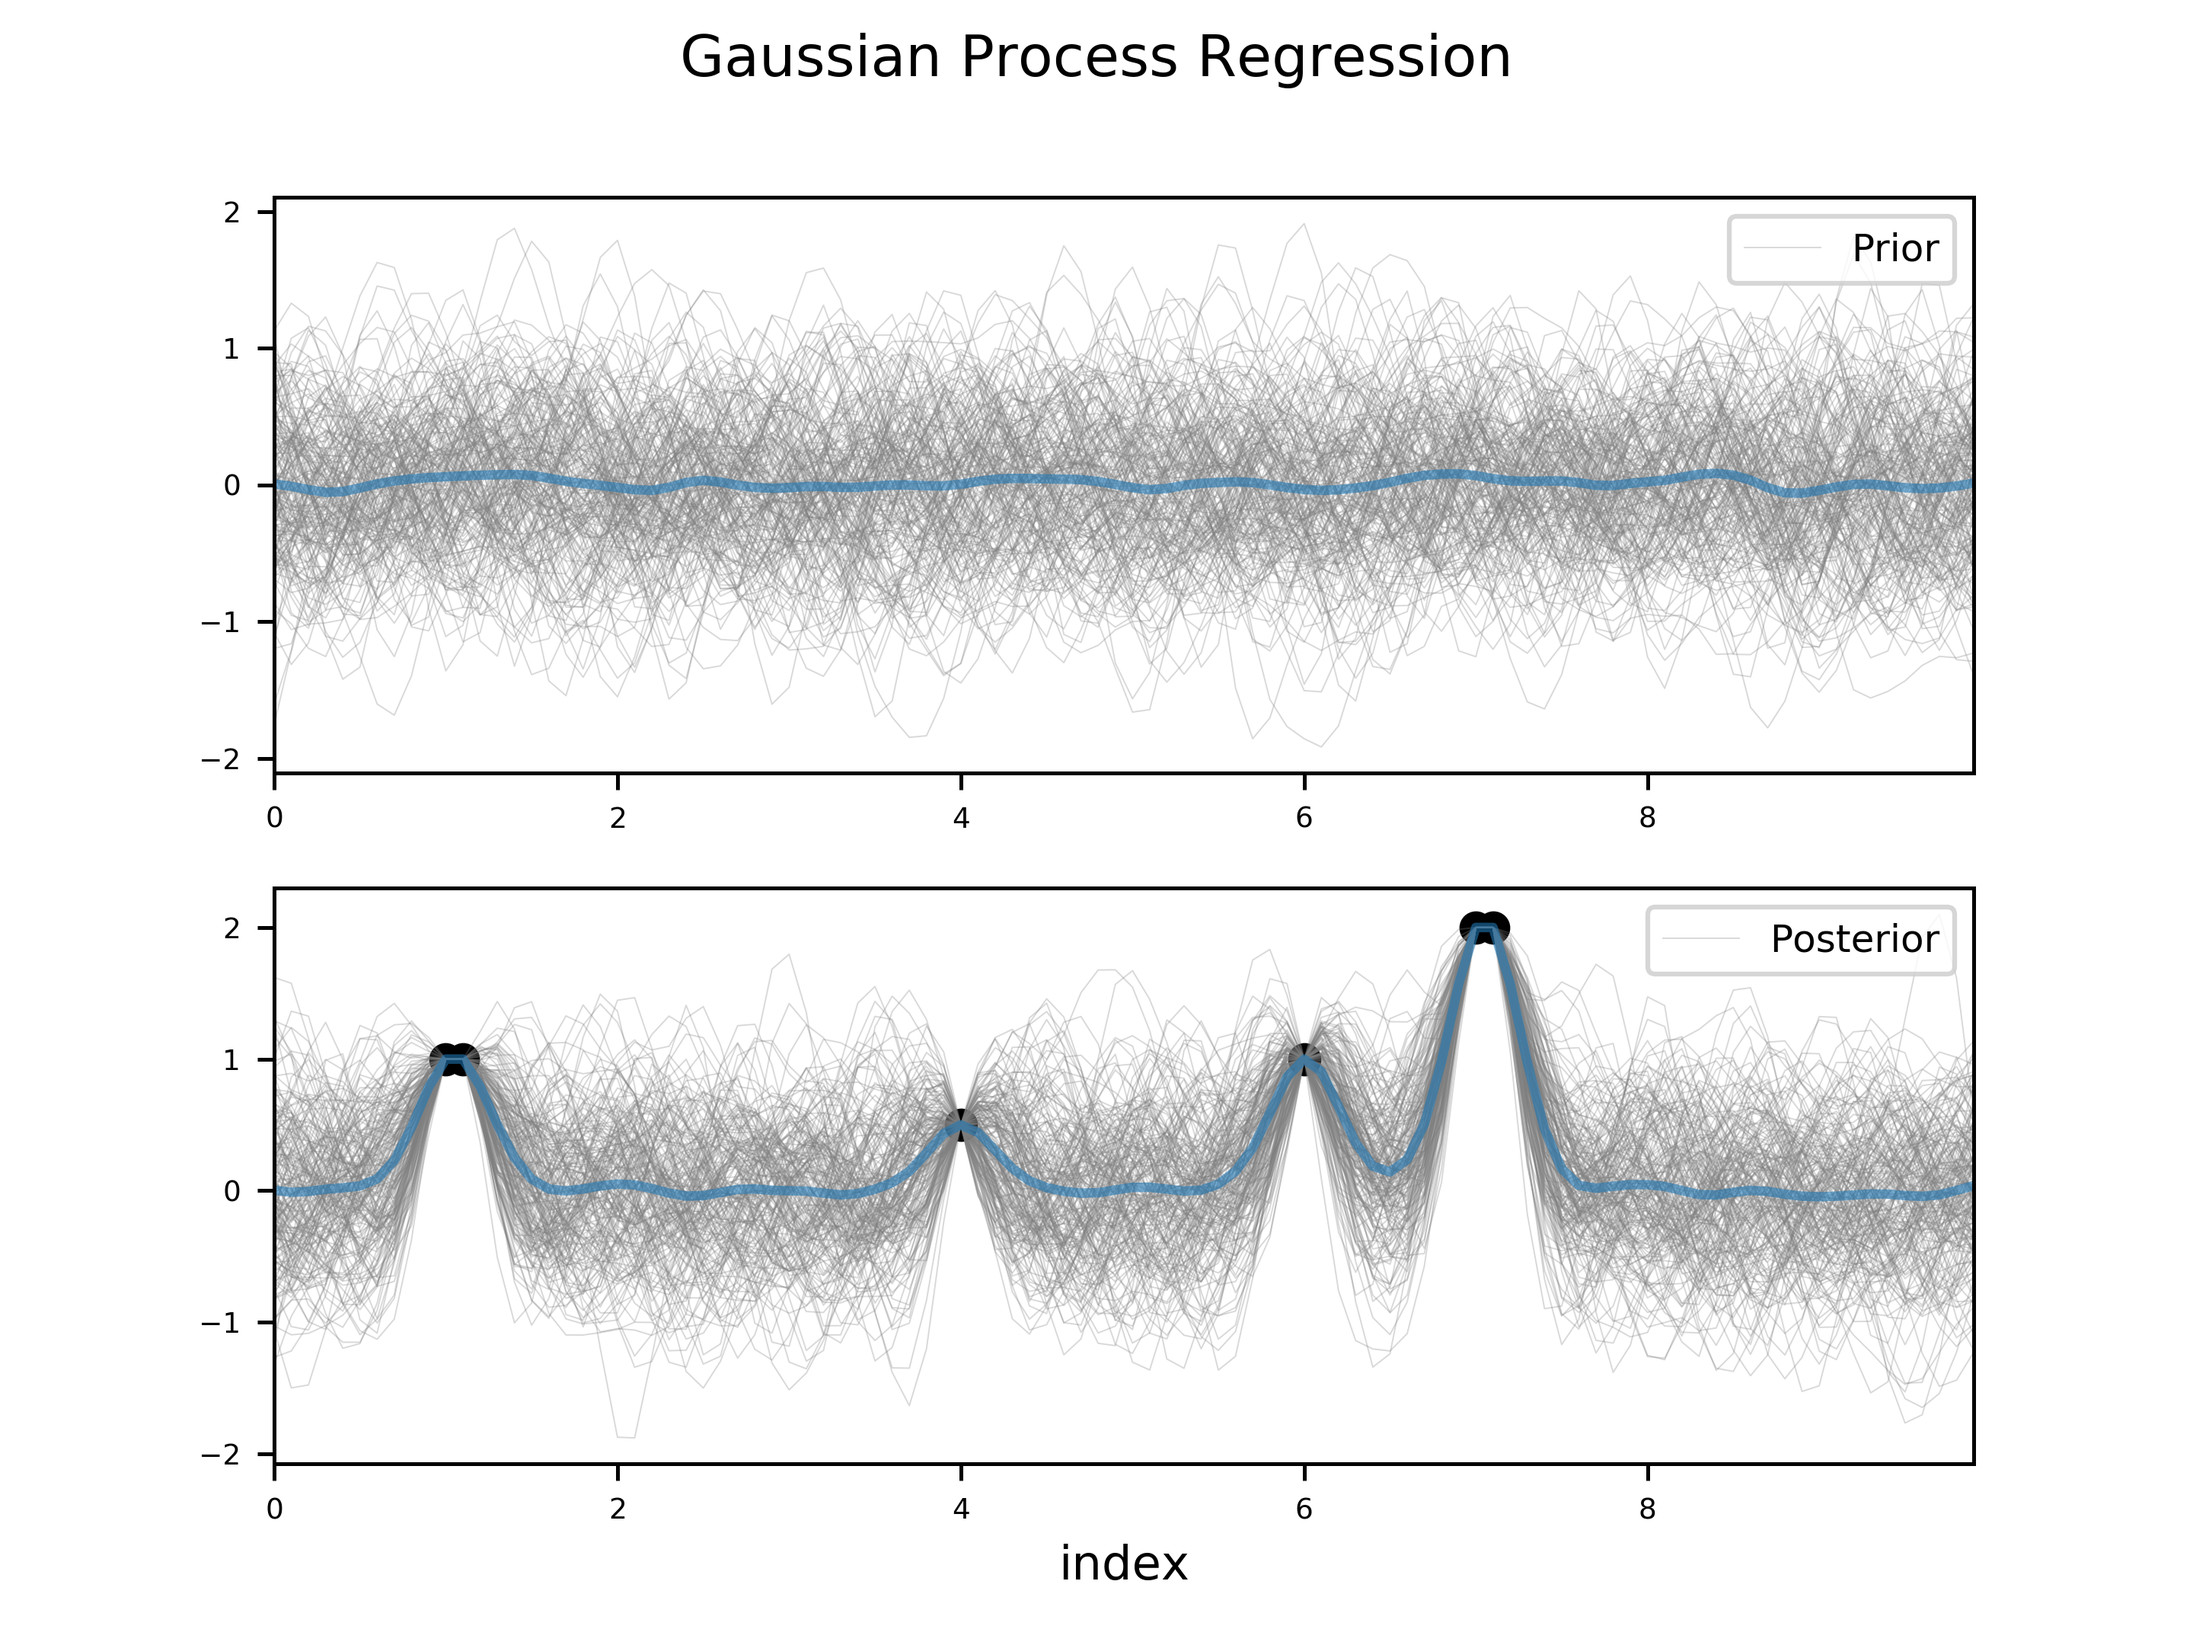
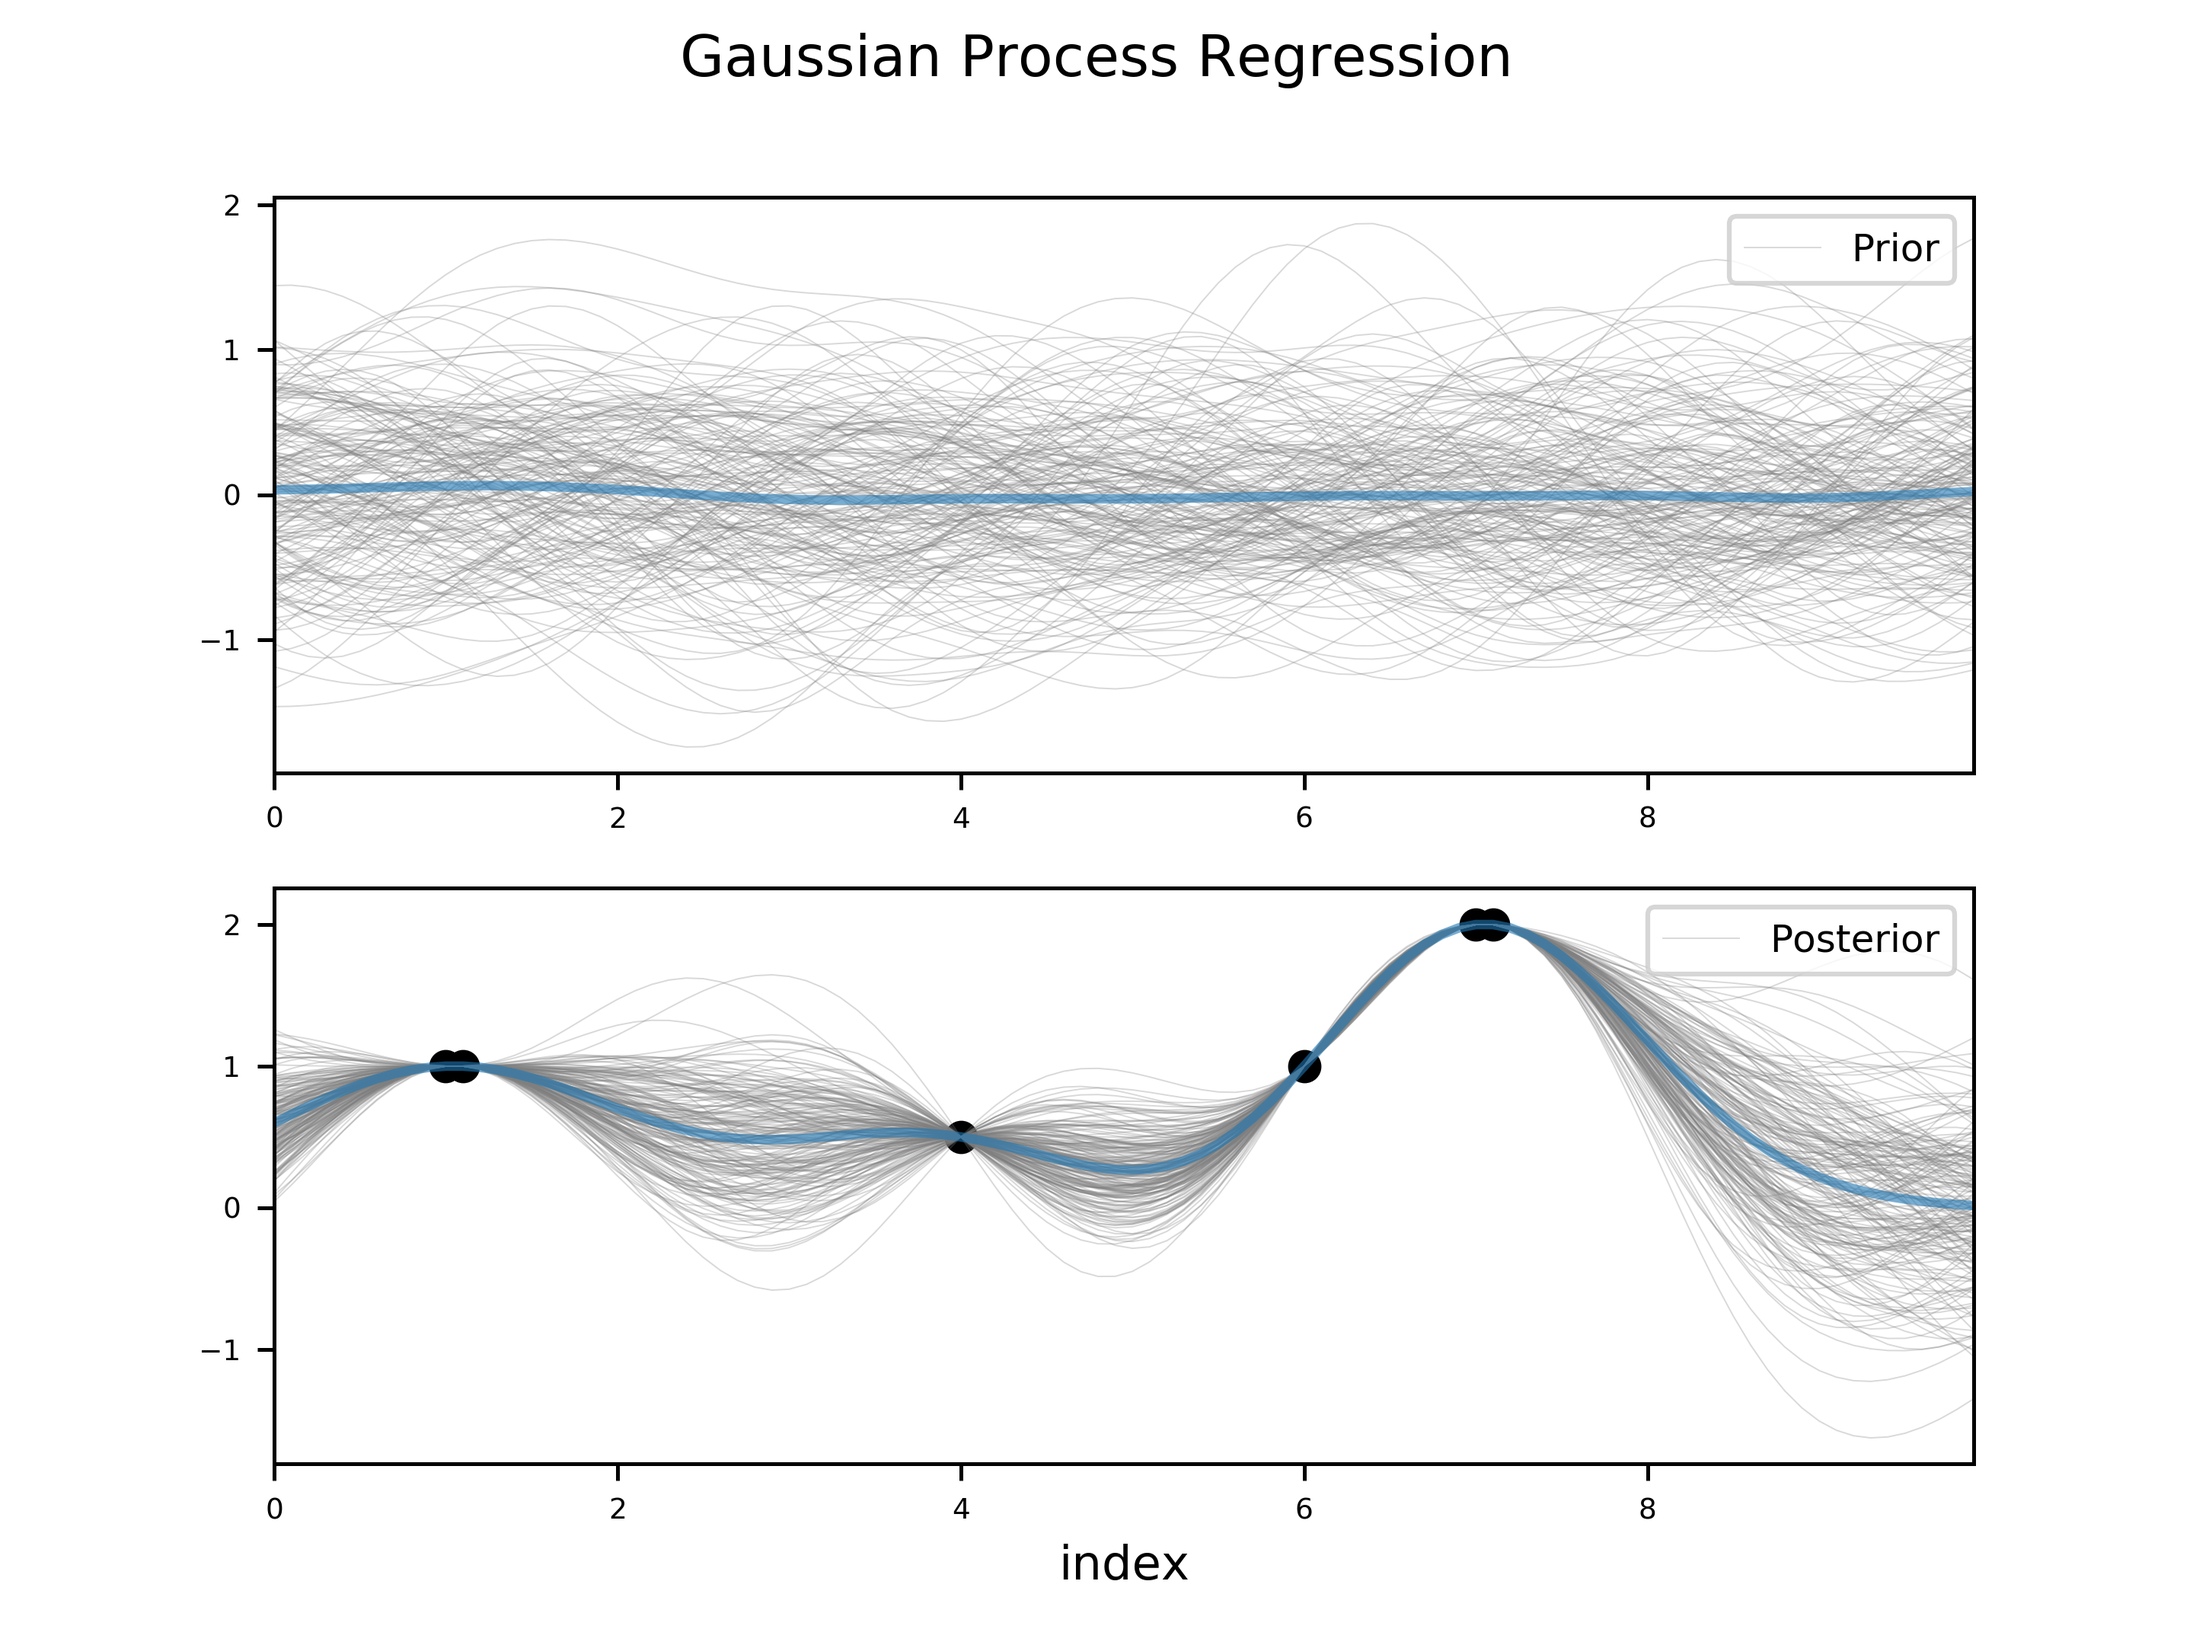
高斯过程优化

Changed region(s): [[0.0938, 0.1551, 0.9062, 0.4343], [0.0938, 0.5583, 0.9062, 0.8375]]

diff --git a/lib/solve_optimization.py b/lib/solve_optimization.py
@@ -1,0 +1,98 @@
+# -*- coding: utf-8 -*-
+"""
+Created on 2020/2/14 14:18
+
+@Project -> File: gaussian-process-regression -> solve_optimization.py
+
+@Author: luolei
+
+@Email: dreisteine262@163.com
+
+@Describe: 使用高斯过程求解函数最优化
+"""
+import logging
+
+logging.basicConfig(level = logging.INFO)
+
+import matplotlib.pyplot as plt
+import numpy as np
+import random
+import sys
+
+sys.path.append('../')
+
+from lib import proj_cmap
+from lib import gen_gaussian_process_samples
+from mod.gaussian_process.sampling import cal_covariance_matrix
+
+kernel_name = 'RBF'
+kernel_params = {'sigma': 10.0, 'l': 0.8}
+
+
+def objective_func(t):
+	return np.sin(8 * t) * np.power(t, 2) + 10 * t * np.cos(t)
+
+
+if __name__ == '__main__':
+	# 参数.
+	x_set = np.arange(-5, 5, 0.1)
+	mu = np.zeros([len(x_set), 1])
+	C = cal_covariance_matrix(x_set, kernel_name, kernel_params)
+	prior_samples = gen_gaussian_process_samples(x_set, mu, C, samples_n = 200)
+	
+	# plt.plot(xs, prior_samples, c = proj_cmap['blue'])
+	
+	# 观测.
+	x_obs = []
+	y_obs = []
+	
+	idxs2sample = list(range(len(x_set)))  # 通过index在x_set中进行抽样
+	guess_n = 0
+	while True:
+		if guess_n == 0:
+			idx = random.sample(idxs2sample, k = 1)[0]
+		else:
+			idx = np.argmax(vars)
+		idxs2sample.remove(idx)  # TODO: ValueError: list.remove(x): x not in list
+		
+		x_new = x_set[idx]
+		y_new = objective_func(x_new)
+		x_obs.append(x_new)
+		y_obs.append(y_new)
+		obs_n = len(x_obs)
+		
+		# 先验参数mu.
+		mu_1 = np.zeros_like(x_obs).reshape(-1, 1)
+		mu_2 = np.zeros_like(x_set).reshape(-1, 1)
+		
+		x_total = np.hstack((np.array(x_obs), x_set))
+		C = cal_covariance_matrix(x_total, kernel_name = kernel_name, kernel_params = kernel_params)
+		C_11 = C[: obs_n, : obs_n]
+		C_12 = C[: obs_n, obs_n:]
+		C_21 = C[obs_n:, : obs_n]
+		C_22 = C[obs_n:, obs_n:]
+		
+		# 后验参数mu和sigma.
+		mu_cond = mu_2 + np.dot(np.dot(C_21, np.linalg.inv(C_11)), np.array(y_obs).reshape(-1, 1) - mu_1)
+		sigma_cond = C_22 - np.dot(np.dot(C_21, np.linalg.inv(C_11)), C_12)
+		
+		post_samples = gen_gaussian_process_samples(x_set, mu_cond, sigma_cond, samples_n = 200)
+		vars = np.var(post_samples, axis = 1)
+		
+		plt.clf()
+		plt.scatter(x_obs, y_obs, marker = '.', s = 12, c = proj_cmap['black'])
+		plt.plot(x_set, post_samples, c = proj_cmap['grey'], linewidth = 0.3)
+		plt.plot(x_set, objective_func(x_set), c = proj_cmap['blue'], linewidth = 0.8)
+		plt.legend(['iteration = {}'.format(guess_n)], loc = 'upper right')
+		plt.show()
+		plt.pause(0.3)
+		
+		if np.max(vars) < 1e-6:
+			break
+		else:
+			guess_n += 1
+	
+
+
+
+

diff --git a/lib/gaussian_process_regression.py b/lib/gaussian_process_regression.py
@@ -23,36 +23,11 @@ import os
 sys.path.append('../')
 
 from lib import proj_dir, proj_cmap
-from mod.gaussian_process.sampling import cal_covariance_matrix, gpr_sampling
-
+from lib import gen_gaussian_process_samples
+from mod.gaussian_process.sampling import cal_covariance_matrix
 
 kernel_name = 'RBF'
-kernel_params = {'sigma': 0.5, 'l': 0.2, 'p': 0.5}
-
-
-def gen_gaussian_process_samples(t_list, mu, C, samples_n):
-	"""
-	生成高斯过程样本
-	:param t_list: array like, 时刻list
-	:param mu: np.array, 均值向量
-	:param C: np.array, 协方差举证
-	:param sample_n: int, 采样数
-	"""
-	t_list = np.array(t_list).reshape(-1, 1)
-	mu = np.array(mu).reshape(-1, 1)
-	
-	dims = 	[t_list.shape[0], mu.shape[0], C.shape[0], C.shape[1]]
-	if len(set(dims)) != 1:
-		raise ValueError('t_list, mu和C的维度不一致.')
-	
-	samples = None
-	for i in range(samples_n):
-		x = gpr_sampling(t_list, mu, C)
-		if i == 0:
-			samples = x
-		else:
-			samples = np.hstack((samples, x))
-	return samples
+kernel_params = {'sigma': 0.5, 'l': 1.0, 'p': 0.5}
 
 
 if __name__ == '__main__':

diff --git a/lib/__init__.py b/lib/__init__.py
@@ -11,14 +11,41 @@ Created on 2020/1/30 17:02
 @Describe: 初始化
 """
 
+import numpy as np
 import sys
 
 sys.path.append('../')
 
 from mod.config.config_loader import config
+from mod.gaussian_process.sampling import gpr_sampling
 
 proj_dir = config.proj_dir
 proj_cmap = config.proj_cmap
+
+
+def gen_gaussian_process_samples(t_list, mu, C, samples_n):
+	"""
+	生成高斯过程样本
+	:param t_list: array like, 时刻list
+	:param mu: np.array, 均值向量
+	:param C: np.array, 协方差举证
+	:param sample_n: int, 采样数
+	"""
+	t_list = np.array(t_list).reshape(-1, 1)
+	mu = np.array(mu).reshape(-1, 1)
+	
+	dims = [t_list.shape[0], mu.shape[0], C.shape[0], C.shape[1]]
+	if len(set(dims)) != 1:
+		raise ValueError('t_list, mu和C的维度不一致.')
+	
+	samples = None
+	for i in range(samples_n):
+		x = gpr_sampling(t_list, mu, C)
+		if i == 0:
+			samples = x
+		else:
+			samples = np.hstack((samples, x))
+	return samples
 
 
 

diff --git a/mod/gaussian_process/sampling.py b/mod/gaussian_process/sampling.py
@@ -11,6 +11,10 @@ Created on 2020/1/30 18:03
 @Describe: 生成高斯过程样本
 """
 
+import logging
+
+logging.basicConfig(level = logging.INFO)
+
 import seaborn as sns
 import numpy as np
 import sys
